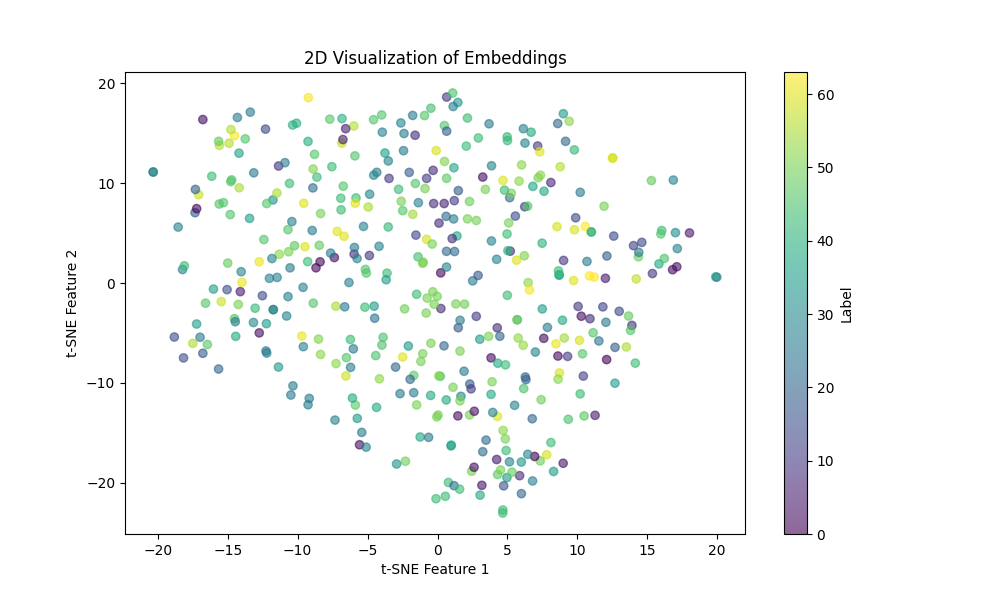
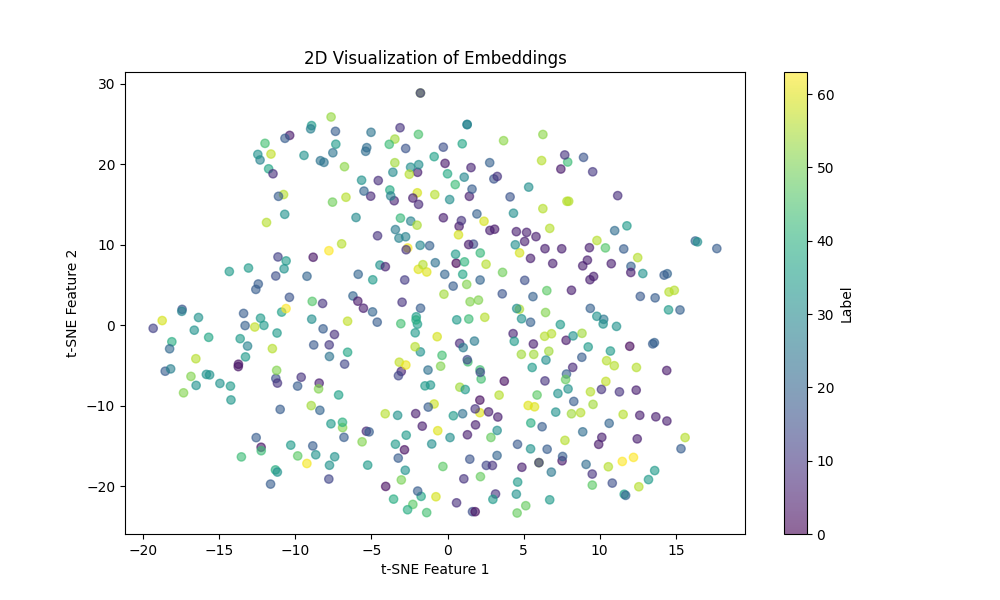
added changes so that it can work on cluster. Other small changes for verbosity

diff --git a/leopard_id/train.py b/leopard_id/train.py
@@ -11,7 +11,7 @@ import os
 project_root = os.path.dirname(os.path.abspath(__file__))
 
 
-def setup_data_loader():
+def setup_data_loader(verbose):
     root_dir = os.path.join(project_root, "data",
                             "crop_output_subset")
     # check root_dir is valid directory
@@ -30,17 +30,19 @@ def setup_data_loader():
         ),
     )
 
-    test_sampler = LeopardBatchSampler(test_dataset, batch_size=32)
+    test_sampler = LeopardBatchSampler(test_dataset, batch_size=32, verbose)
     return DataLoader(test_dataset, batch_sampler=test_sampler)
 
 
 def main():
+    verbose = True
     device = torch.device("cuda" if torch.cuda.is_available() else "cpu")
-    test_loader = setup_data_loader()
+    print(f"Using device: {device}")
+    test_loader = setup_data_loader(verbose=verbose)
 
     model = TripletNetwork(backbone_model="resnet18").to(device)
     resnet_model = train_model(
-        model, test_loader, None, lr=1e-3, epochs=2, device=device
+        model, test_loader, None, lr=1e-3, epochs=3, device=device, verbose=verbose
     )
     # save model
     save_path = os.path.join(project_root, "weights", "leopard-id.pth")

diff --git a/leopard_id/engine/trainer.py b/leopard_id/engine/trainer.py
@@ -48,7 +48,7 @@ def evaluate_epoch(model, data_loader, criterion, device):
     return avg_loss
 
 
-def train_model(model, train_loader, test_loader, lr, epochs, device):
+def train_model(model, train_loader, test_loader, lr, epochs, device, verbose):
     """
     Train and evaluate the model, focusing only on the last added
     embedding layer.
@@ -60,7 +60,7 @@ def train_model(model, train_loader, test_loader, lr, epochs, device):
     # Only parameters of the embedding layer are trainable
     optimizer = optim.Adam(model.embedding_layer.parameters(), lr=lr)
 
-    criterion = TripletLoss()
+    criterion = TripletLoss(verbose=verbose)
     writer = SummaryWriter()  # TensorBoard summary writer initialized here
 
     model.to(device)

diff --git a/leopard_id/visualization/latent_space_visualizer.py b/leopard_id/visualization/latent_space_visualizer.py
@@ -70,7 +70,7 @@ def main_executor_visualization(model=None):
 
     # Initialize the dataset and DataLoader
     root_dir = os.path.join(project_root, "data",
-                            "crop_output_subset")
+                            "crop_output_subset_2")
     val_dataset = LeopardDataset(
         root_dir=root_dir,
         transform=transforms.Compose([

diff --git a/leopard_id/losses/TripletLoss.py b/leopard_id/losses/TripletLoss.py
@@ -18,7 +18,7 @@ def euclidean_dist(x, y):
 
 
 class TripletLoss(nn.Module):
-    def __init__(self, margin=1.0, verbose=False):
+    def __init__(self, margin=2.0, verbose=False):
         super(TripletLoss, self).__init__()
         self.margin = margin
         self.ranking_loss = nn.MarginRankingLoss(margin=self.margin)
